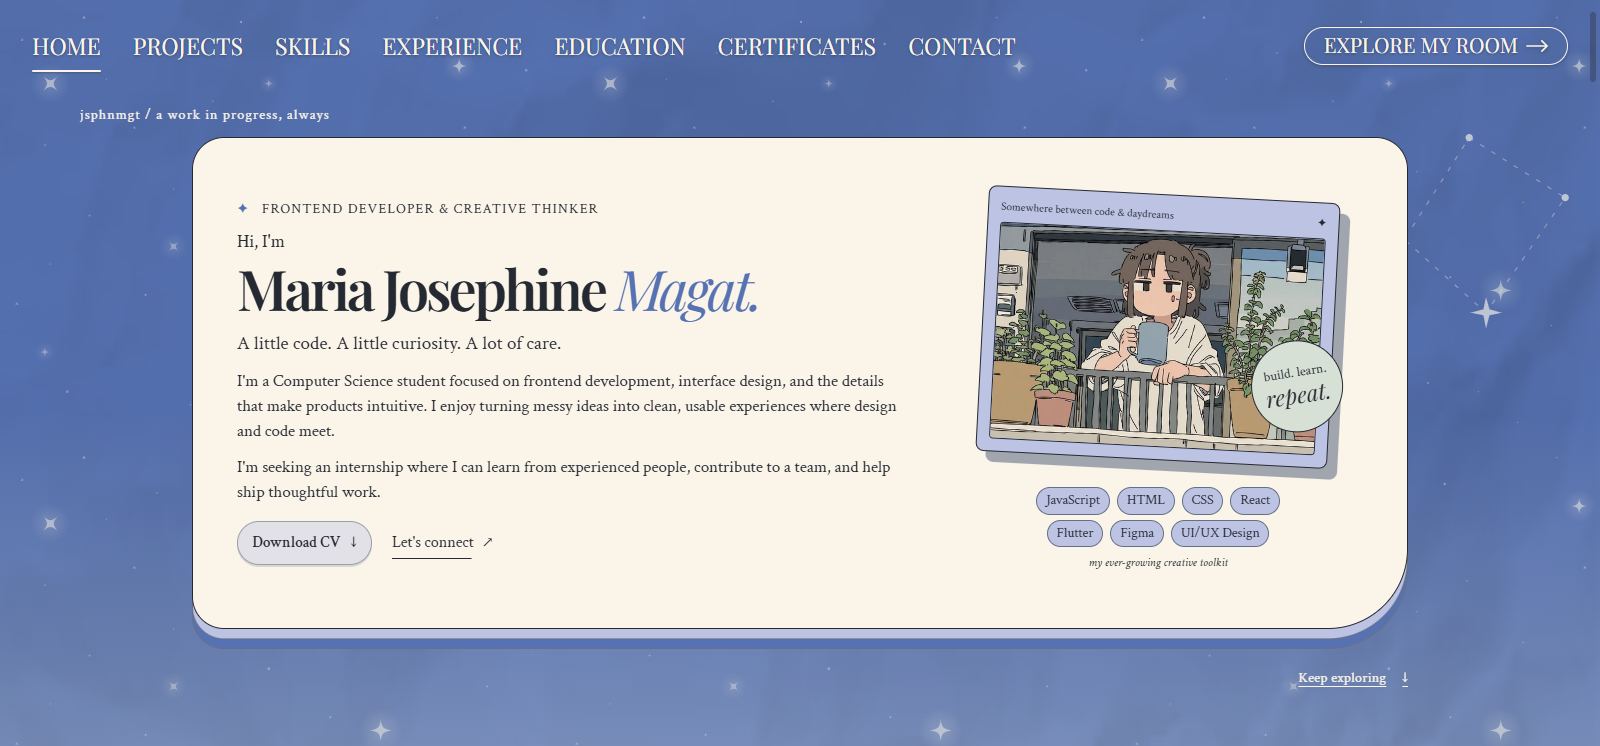
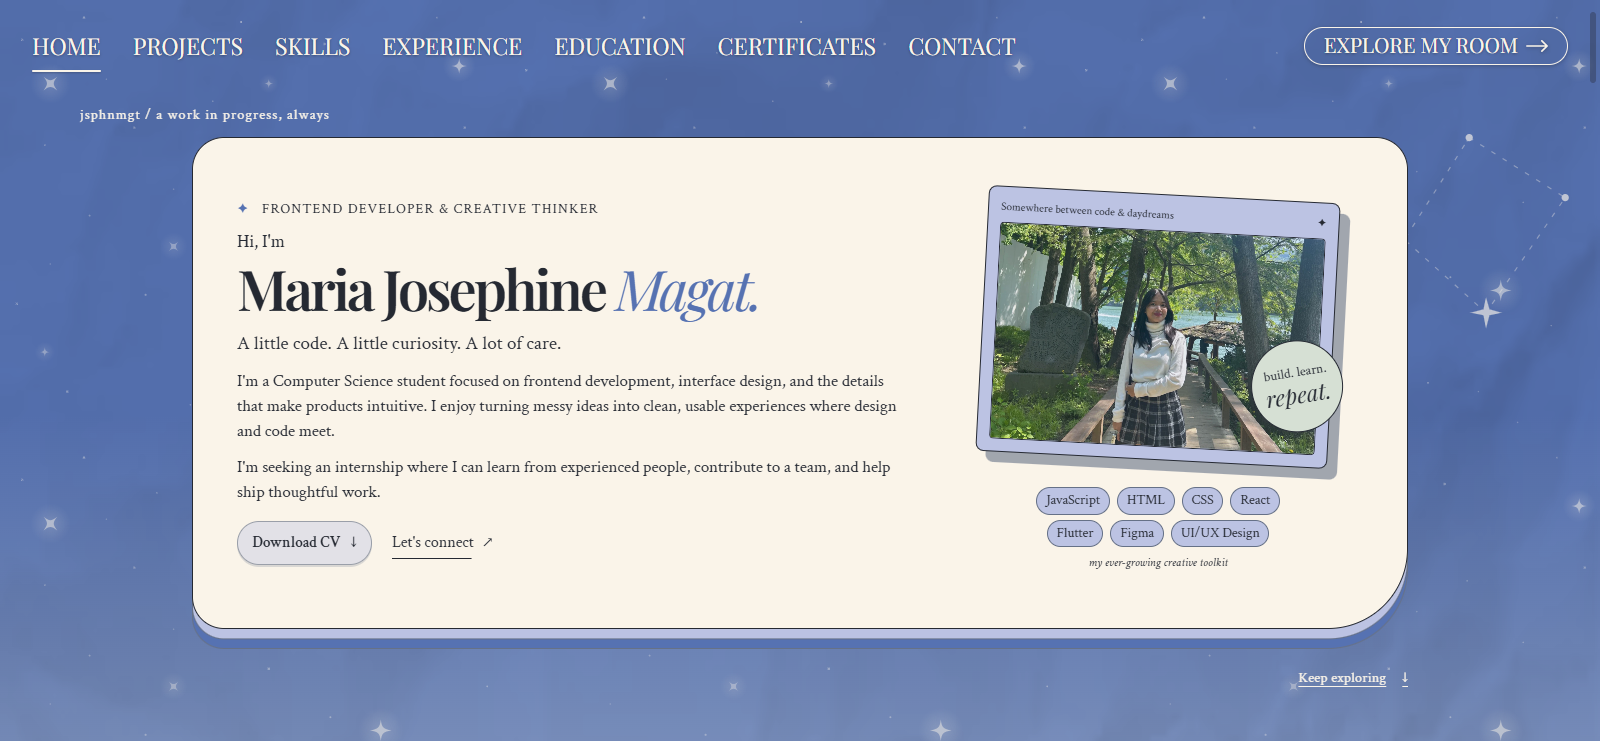
updated portfolio content

diff --git a/client/src/components/ProfessionalSide/sections/Certificates.jsx b/client/src/components/ProfessionalSide/sections/Certificates.jsx
@@ -1,30 +1,13 @@
 import { assets } from "../../../assets";
 const certificates = [
   {
-    title: "CompTIA ITF+ Certified",
-    year: "2023", issuer: "CompTIA",
-    dateEarned: "November 23, 2023",
-    image: assets["comptia-certificate.png"],
-    credentialUrl: "https://www.credly.com/badges/c0fc5d0f-96df-4c9a-ac49-d79461699fdc/public_url",
-    description: "Certification in foundational information technology concepts and skills."
-  },
-  {
-    title: "AI Fundamentals with IBM SkillsBuild",
+    title: "Cyber Threat Management",
     year: "2026",
-    issuer: "Cisco Networking Academy / IBM SkillsBuild",
-    dateEarned: "March 3, 2026",
-    image: assets["AIfundamentals-certificate.png"],
-    credentialUrl: "https://www.credly.com/badges/2c658acd-7392-4881-9862-80703aec204d/public_url",
-    description: "Completed introductory training in artificial intelligence through Cisco Networking Academy and IBM SkillsBuild."
-  },
-  {
-    title: "AWS Academy Graduate - Cloud Foundations - Training Badge",
-    year: "2026",
-    issuer: "AWS Academy",
-    dateEarned: "March 16, 2026",
-    image: assets["AWS-certificate.png"],
-    credentialUrl: "https://www.credly.com/badges/5c9b7ac6-ceac-4c8a-aab5-6696cf2b1930/public_url",
-    description: "Completed 20 hours of AWS Academy Cloud Foundations training."
+    issuer: "Cisco Networking Academy",
+    dateEarned: "September 16, 2026",
+    image: assets["cyberThreatManagement-certificate.png"],
+    credentialUrl: "https://www.credly.com/badges/9bec74d6-e4e4-432e-88d9-c67c274980e8/public_url",
+    description: "Completed training in vulnerability assessment, risk management, incident response, disaster recovery, and security investigations."
   },
   {
     title: "Data Analytics Essentials",
@@ -36,13 +19,22 @@ const certificates = [
     description: "Completed training in data preparation, statistical analysis, and hands-on work with Excel, SQL, and Tableau."
   },
   {
-    title: "JavaScript Essentials 1",
-    year: "2024",
-    issuer: "Cisco Networking Academy / OpenEDG JS Institute",
-    dateEarned: "October 25, 2024",
-    image: assets["javascriptEssentials-certificate.png"],
-    credentialUrl: "https://www.credly.com/badges/07f104b5-284c-4615-94f1-a488be2186e4/public_url",
-    description: "Completed training in JavaScript fundamentals, including variables, data types, flow control, functions, and debugging."
+    title: "AWS Academy Graduate - Cloud Foundations - Training Badge",
+    year: "2026",
+    issuer: "AWS Academy",
+    dateEarned: "March 16, 2026",
+    image: assets["AWS-certificate.png"],
+    credentialUrl: "https://www.credly.com/badges/5c9b7ac6-ceac-4c8a-aab5-6696cf2b1930/public_url",
+    description: "Completed 20 hours of AWS Academy Cloud Foundations training."
+  },
+  {
+    title: "AI Fundamentals with IBM SkillsBuild",
+    year: "2026",
+    issuer: "Cisco Networking Academy / IBM SkillsBuild",
+    dateEarned: "March 3, 2026",
+    image: assets["AIfundamentals-certificate.png"],
+    credentialUrl: "https://www.credly.com/badges/2c658acd-7392-4881-9862-80703aec204d/public_url",
+    description: "Completed introductory training in artificial intelligence through Cisco Networking Academy and IBM SkillsBuild."
   },
   {
     title: "Artificial Intelligence Fundamentals",
@@ -54,15 +46,6 @@ const certificates = [
     description: "Completed the requirements for the Artificial Intelligence Fundamentals credential from IBM SkillsBuild."
   },
   {
-    title: "Cyber Threat Management",
-    year: "2026",
-    issuer: "Cisco Networking Academy",
-    dateEarned: "September 16, 2026",
-    image: assets["cyberThreatManagement-certificate.png"],
-    credentialUrl: "https://www.credly.com/badges/9bec74d6-e4e4-432e-88d9-c67c274980e8/public_url",
-    description: "Completed training in vulnerability assessment, risk management, incident response, disaster recovery, and security investigations."
-  },
-  {
     title: "Endpoint Security",
     year: "2025",
     issuer: "Cisco Networking Academy",
@@ -70,6 +53,50 @@ const certificates = [
     image: assets["endpointSecurity-certificate.png"],
     credentialUrl: "https://www.credly.com/badges/8950695f-169c-48e8-b65c-e021d687538f/public_url",
     description: "Completed training in endpoint security, network threat mitigation, malware analysis, and secure network configuration."
+  },
+  {
+    title: "Relational Database V8",
+    year: "2025",
+    issuer: "freeCodeCamp",
+    dateEarned: "February 5, 2025",
+    image: assets["relational-database-certificate.png"],
+    credentialUrl: "https://www.freecodecamp.org/certification/jsphnmgt/relational-database-v8",
+    description: "Earned the Relational Database V8 Developer Certification from freeCodeCamp, representing approximately 300 hours of coursework and project work."
+  },
+  {
+    title: "JavaScript Essentials 1",
+    year: "2024",
+    issuer: "Cisco Networking Academy / OpenEDG JS Institute",
+    dateEarned: "October 25, 2024",
+    image: assets["javascriptEssentials-certificate.png"],
+    credentialUrl: "https://www.credly.com/badges/07f104b5-284c-4615-94f1-a488be2186e4/public_url",
+    description: "Completed training in JavaScript fundamentals, including variables, data types, flow control, functions, and debugging."
+  },
+  {
+    title: "Introduction to Figma",
+    year: "2024",
+    issuer: "Simplilearn SkillUp",
+    dateEarned: "September 19, 2024",
+    image: assets["figma-certificate.png"],
+    credentialUrl: assets["figma-certificate.png"],
+    description: "Completed the Introduction to Figma online course through Simplilearn SkillUp. Certificate code: 7386240."
+  },
+  {
+    title: "Responsive Web Design",
+    year: "2024",
+    issuer: "freeCodeCamp",
+    dateEarned: "August 25, 2024",
+    image: assets["responsive-web-design-certificate.png"],
+    credentialUrl: "https://www.freecodecamp.org/certification/jsphnmgt/responsive-web-design",
+    description: "Earned the Responsive Web Design Developer Certification from freeCodeCamp, representing approximately 300 hours of coursework and project work."
+  },
+  {
+    title: "CompTIA IT Fundamentals+ (ITF+) Certification",
+    year: "2023", issuer: "CompTIA",
+    dateEarned: "November 23, 2023",
+    image: assets["comptia-certificate.png"],
+    credentialUrl: "https://www.credly.com/badges/c0fc5d0f-96df-4c9a-ac49-d79461699fdc/public_url",
+    description: "Certification in foundational information technology concepts and skills."
   }
 ];
 export default function Certificates({ onCardClick }) {

diff --git a/client/src/styles/skills.css b/client/src/styles/skills.css
@@ -16,6 +16,19 @@
 .professional-skill-card .project-technology-mark svg { width: 100%; height: 100%; }
 .professional-skill-card .project-technology-name { font-family: var(--font-body); font-size: .85rem; line-height: 1.2; }
 .professional-skills-note { display: flex; justify-content: center; align-items: center; gap: .75rem; margin: 1.75rem 0 0; color: var(--color-cream); font-family: var(--font-body); font-size: .95rem; font-style: italic; text-align: center; }
+@media (hover: hover) and (pointer: fine) {
+  .professional-skill-card:hover { border-color: var(--color-cobalt); box-shadow: 6px 9px 0 rgb(37 41 50 / .2); }
+  .professional-skill-card:hover .professional-skill-symbol { background: var(--color-lavender); border-color: var(--color-steel); }
+  .professional-skill-card .project-technology-list > li:hover { background: var(--color-lavender); border-color: var(--color-steel); }
+}
+@media (hover: hover) and (pointer: fine) and (prefers-reduced-motion: no-preference) {
+  .professional-skill-card { transition: transform .3s ease, box-shadow .3s ease, border-color .3s ease; }
+  .professional-skill-symbol { transition: background .3s ease, border-color .3s ease; }
+  .professional-skill-card .project-technology-list > li { transition: transform .2s ease, background .2s ease, border-color .2s ease; }
+  .professional-skill-card:hover { transform: translateY(-5px) rotate(-.4deg); }
+  .professional-skill-card:nth-child(even):hover { transform: translateY(-5px) rotate(.4deg); }
+  .professional-skill-card .project-technology-list > li:hover { transform: translateY(-2px); }
+}
 @media (max-width: 1100px) {
   .professional-skills-grid { grid-template-columns: repeat(2, minmax(0, 1fr)); }
 }

diff --git a/client/src/components/ProfessionalSide/sections/Projects.jsx b/client/src/components/ProfessionalSide/sections/Projects.jsx
@@ -22,12 +22,6 @@ const projects = [
     description: "A mobile application for discovering food stalls at Holy Angel University, finding dishes, and saving favorite stalls for easy access.", techStack: ["Flutter", "Dart", "Supabase"], asset: "haulam-cover.png", crop: "haulam"
   },
   {
-    title: "MYSTICA",
-    githubUrl: "https://github.com/jsphnmgt/Mystica",
-    projectType: "Solo project",
-    description: "Mystica is a Studio Ghibli-inspired website featuring movies, characters, and its magical world", techStack: ["HTML", "CSS", "JavaScript"], asset: "mystica-cover.png", crop: "mystica"
-  },
-  {
     title: "My Bookshelf",
     projectType: "Solo project",
     description: "A React app for adding books to a personal collection and displaying them on a responsive virtual shelf.",
@@ -35,6 +29,12 @@ const projects = [
     image: projectShowcases["My Bookshelf"].views[0].image,
     crop: "bookshelf",
     githubUrl: "https://github.com/jsphnmgt/my-bookshelf",
+  },
+  {
+    title: "MYSTICA",
+    githubUrl: "https://github.com/jsphnmgt/Mystica",
+    projectType: "Solo project",
+    description: "Mystica is a Studio Ghibli-inspired website featuring movies, characters, and its magical world", techStack: ["HTML", "CSS", "JavaScript"], asset: "mystica-cover.png", crop: "mystica"
   },
 ];
 export default function Projects({ onCardClick }) {
